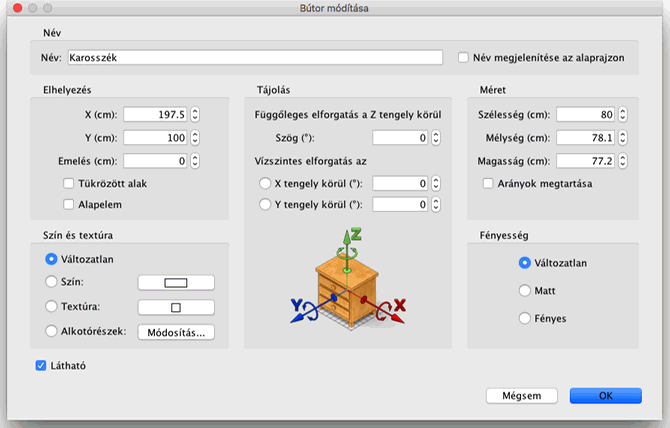
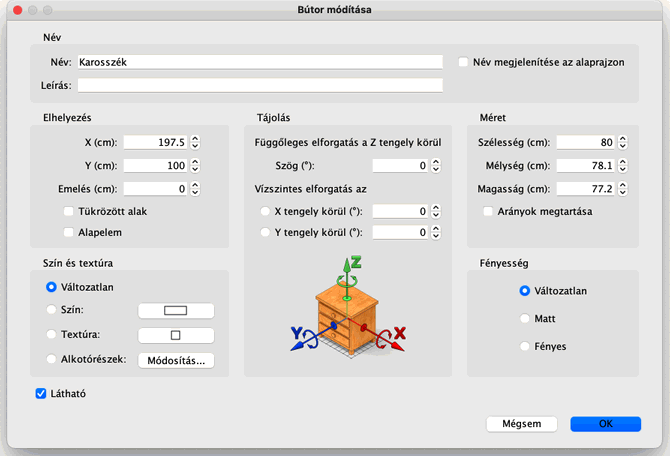
Updated help for description field
git-svn-id: https://svn.code.sf.net/p/sweethome3d/code/trunk@8444 03e323e1-6c6c-46a5-9f71-c4ce5d8c6204

diff --git a/SweetHome3D/src/com/eteks/sweethome3d/viewcontroller/resources/help/en/editingFurniture.html b/SweetHome3D/src/com/eteks/sweethome3d/viewcontroller/resources/help/en/editingFurniture.html
@@ -109,7 +109,7 @@
 	  <p>A piece of furniture  may also be  edited thanks to its pane, by double-clicking on that piece in 
 	    the home plan or furniture list, or by choosing <i>Furniture &gt; Modify...</i> after selecting it.</p>
 	    <p align="center"><img src="images/editingFurniture.png" alt="Modify furniture"></p>
-	    <p>In the furniture pane, you may change its name, the abscissa (X) and 
+	    <p>In the furniture pane, you may change its name, its description, the abscissa (X) and 
           the ordinate (Y) of its center, the elevation of its bottom from the 
           floor, its width, its depth, its height, its color or its texture, its 
           shininess, its visibility, its rotation angles, whether its name should 
@@ -124,7 +124,9 @@
 	    <p>The <i>Furniture materials</i> pane displays the list of materials you can edit, and a 3D preview 
 	    of the color and texture changes you made, because materials may not always have  some clear or translated names 
 	    (like <i>bone2</i> instead of <i>mattress</i> or <i>flyellow</i> instead of <i>frame</i> in the previous figure). 
-      When necessary, you can also  rotate the object in the 3D preview with the mouse and  modify more than a material at the same time after selecting them in the list.</p></td>
+	    When necessary, you may modify more than a material at the same time after selecting them in the list and 
+	    rotate the piece of furniture with a mouse drag on the background of the 3D preview.
+	    If you click on a part of the piece in the preview, its matching material will be selected in the list.</p></td>
 	</tr>
 </table>
 <div id="taskbox">
